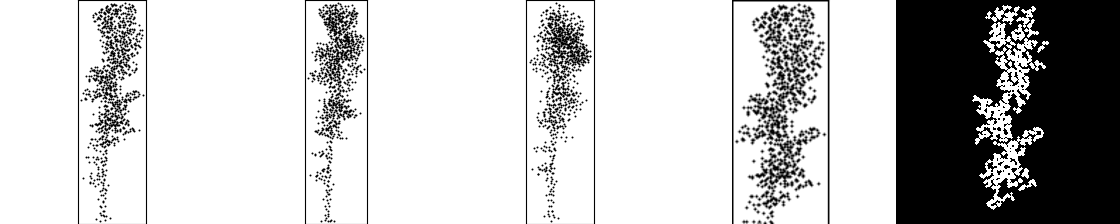
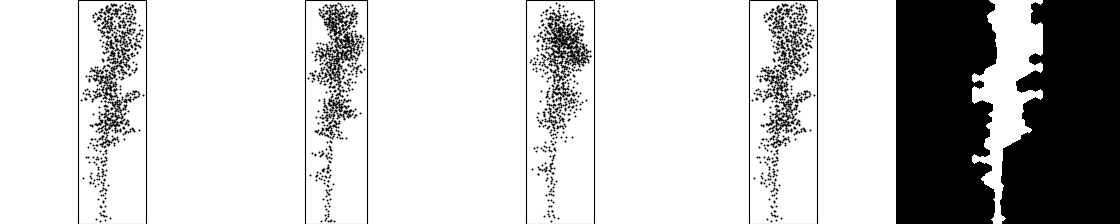
Fixing the defects in the images produced by `extract_2d_hu.py`, specifically during stage **B2 — 2D Descriptors extraction**.

Changed region(s): [[0.6562, 0.0, 0.75, 1.0], [0.8438, 0.0, 0.9375, 1.0]]

diff --git a/src/features/extract_2d_hu.py b/src/features/extract_2d_hu.py
@@ -130,24 +130,60 @@ def compute_otsu(img: np.ndarray) -> Tuple[int, np.ndarray]:
     """
     Return threshold and binary mask using Otsu. Use cv2 if available else numpy.
     Auto-invert mask if the foreground (white) covers >50% of image (likely background).
+    Applies light Gaussian blur and morphological cleanup to reduce speckle.
     Ensures mask values are 0 or 255 uint8.
     """
+    # apply small blur first to connect sparse dots (prefer cv2 GaussianBlur)
     if _HAS_CV2:
-        # cv2.threshold returns (thresh, mask) where mask is 0/255
-        thresh_val, mask = cv2.threshold(img, 0, 255, cv2.THRESH_BINARY + cv2.THRESH_OTSU)
-        thresh = int(thresh_val)
+        try:
+            blur = cv2.GaussianBlur(img, (5, 5), 0)
+        except Exception:
+            blur = img
+        try:
+            thresh_val, mask = cv2.threshold(blur, 0, 255, cv2.THRESH_BINARY + cv2.THRESH_OTSU)
+            thresh = int(thresh_val)
+        except Exception:
+            t = _otsu_threshold_numpy(blur)
+            thresh = int(t)
+            mask = (blur > t).astype(np.uint8) * 255
     else:
-        t = _otsu_threshold_numpy(img)
-        mask = (img > t).astype(np.uint8) * 255
+        # try PIL blur fallback
+        try:
+            from PIL import ImageFilter
+            pil = Image.fromarray(img)
+            pil = pil.filter(ImageFilter.GaussianBlur(radius=1))
+            blur = np.asarray(pil)
+        except Exception:
+            blur = img
+        t = _otsu_threshold_numpy(blur)
         thresh = int(t)
+        mask = (blur > t).astype(np.uint8) * 255
 
     # Ensure mask is binary 0/255 (uint8)
     mask = (mask > 127).astype(np.uint8) * 255
 
-    # Heuristic: if the foreground (mask==255) occupies >50% of image, it's likely inverted -> invert
+    # Heuristic invert if foreground > 50% (likely background was selected)
     fg_ratio = float(np.count_nonzero(mask) / mask.size)
     if fg_ratio > 0.5:
         mask = (255 - mask).astype(np.uint8)
+
+    # Morphological cleanup: close then open to fill holes and remove small speckle
+    if _HAS_CV2:
+        try:
+            kern = cv2.getStructuringElement(cv2.MORPH_ELLIPSE, (5, 5))
+            mask = cv2.morphologyEx(mask, cv2.MORPH_CLOSE, kern, iterations=2)
+            mask = cv2.morphologyEx(mask, cv2.MORPH_OPEN, kern, iterations=1)
+        except Exception:
+            pass
+    else:
+        if _HAS_NDIMAGE:
+            try:
+                binm = (mask > 127)
+                binm = ndi.binary_closing(binm, structure=np.ones((3, 3)))
+                binm = ndi.binary_opening(binm, structure=np.ones((3, 3)))
+                mask = (binm.astype(np.uint8) * 255)
+            except Exception:
+                pass
 
     return int(thresh), mask.astype(np.uint8)
 
@@ -529,6 +565,8 @@ def save_preview(id: str,
         right_pil = Image.fromarray(mask).convert("L")
         if right_pil.size != (resolution, resolution):
             right_pil = right_pil.resize((resolution, resolution), resample=Image.NEAREST)
+        # ensure strict binary after any resizing
+        right_pil = right_pil.point(lambda p: 255 if p > 128 else 0).convert("L")
         right = right_pil.convert("RGB")
     except Exception:
         right = Image.new("RGB", (resolution, resolution), color=(255, 255, 255) if bg_color == "white" else (0, 0, 0))
